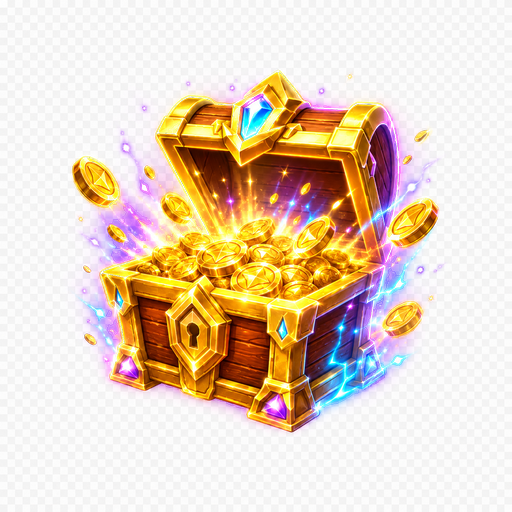
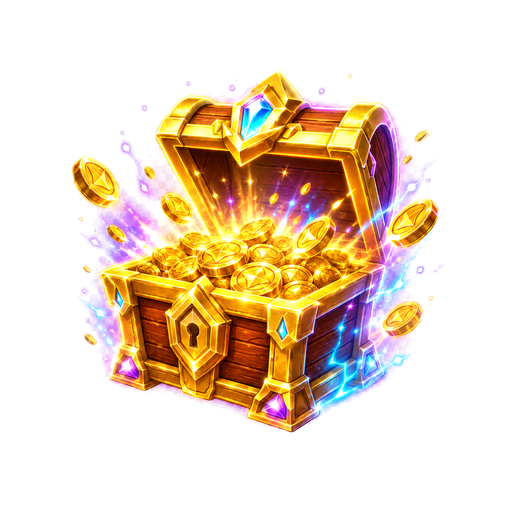
Настоящая прозрачность у картинок алертов + тест рейда
Прозрачность действительно была ненастоящей. В угловом пикселе стояла альфа 1,
а по всему фону 33-43% пикселей имели альфу 1-9: глазами на тёмной панели не
видно, но это плёнка на весь кадр, и на светлой сцене она вылезала
прямоугольником.

Картинки пересобраны из исходников ChatGPT через ImageMagick:

- альфа считается заливкой от краёв (только внешняя светлая область, иначе
  белое свечение внутри сундука и портала прострелило бы насквозь), цвет
  возвращается обратным разсвечиванием, чтобы не было белой каймы;
- всё тусклее порога обнуляется полностью, а не оставляется единичками;
- ImageMagick -channel A -level 10%,100% добивает остаточную дымку. Она
  вылезла у доната: там фон исходника не чисто белый (251 вместо 254), и по
  кадру оставались пиксели с альфой 13-18. Порог мягкий, растягивает альфу
  обратно, поэтому свечение не обрезается ступенькой;
- ресайз и сжатие тоже через ImageMagick: файлы стали вдвое легче
  (757-828 КБ -> 245-341 КБ) при том же размере 512x512.

Проверено не только на тёмной панели, но и на светло-зелёном фоне - именно там
была видна старая плёнка. Сейчас угловой пиксель srgba(0,0,0,0), минимум альфы
по всему изображению 0, прямоугольников нет ни у одной из четырёх картинок.

Тест рейда: сам алерт был реализован полностью (twitchClient.on('raided'),
enqueueRaidAlert, demo:send-raid-alert в preload), но кнопки в интерфейсе не
было - увидеть его можно было, только дождавшись настоящего рейда с Twitch. Во
[…]

diff --git a/backoffice.html b/backoffice.html
@@ -2273,6 +2273,24 @@
             <p id="testDonationState" class="muted">Готово к тесту.</p>
           </article>
 
+          <article class="panel">
+            <h2>Тестовый рейд</h2>
+            <p class="muted">
+              Рейд приходит с Twitch сам, когда другой стример приводит зрителей.
+              Эта кнопка проигрывает тот же алерт вручную — чтобы проверить картинку и звук.
+            </p>
+            <label class="field">
+              <span>Ник рейдера</span>
+              <input id="testRaidUserInput" type="text" value="Тестовый рейдер" />
+            </label>
+            <label class="field">
+              <span>Сколько зрителей привёл</span>
+              <input id="testRaidViewersInput" type="number" min="1" value="42" />
+            </label>
+            <button id="sendRaidButton" class="button" type="button">Отправить тестовый рейд</button>
+            <p id="testRaidState" class="muted">Готово к тесту.</p>
+          </article>
+
           <article class="panel panel--wide">
             <h2>Правила алертов</h2>
             <label class="field">
@@ -2833,6 +2851,17 @@
           message: testDonationMessageInput.value.trim(),
         });
         testDonationState.textContent = 'Тестовый донат отправлен в чат, список донатов и OBS-виджет.';
+      }
+
+      function sendTestRaid() {
+        const viewers = Math.max(Number(document.querySelector('#testRaidViewersInput').value || 0), 1);
+        window.tchat.sendDemoRaidAlert({
+          username: document.querySelector('#testRaidUserInput').value.trim() || 'Тестовый рейдер',
+          viewers,
+          message: `рейд на ${viewers} зрителей`,
+          isTest: true,
+        });
+        document.querySelector('#testRaidState').textContent = 'Тестовый рейд отправлен в OBS-виджет алертов.';
       }
 
       function renderGoalState(goal = {}) {
@@ -5053,6 +5082,7 @@
       document.querySelector('#saveChatUiSettingsButton').addEventListener('click', saveChatUiSettings);
       document.querySelector('#sendButton').addEventListener('click', sendTestMessage);
       document.querySelector('#sendDonationButton').addEventListener('click', sendTestDonation);
+      document.querySelector('#sendRaidButton').addEventListener('click', sendTestRaid);
       document.querySelector('#saveGoalButton').addEventListener('click', saveGoal);
       document.querySelector('#addGoalDonationButton').addEventListener('click', addGoalDonation);
       document.querySelector('#addManualMusicButton').addEventListener('click', addManualMusic);
